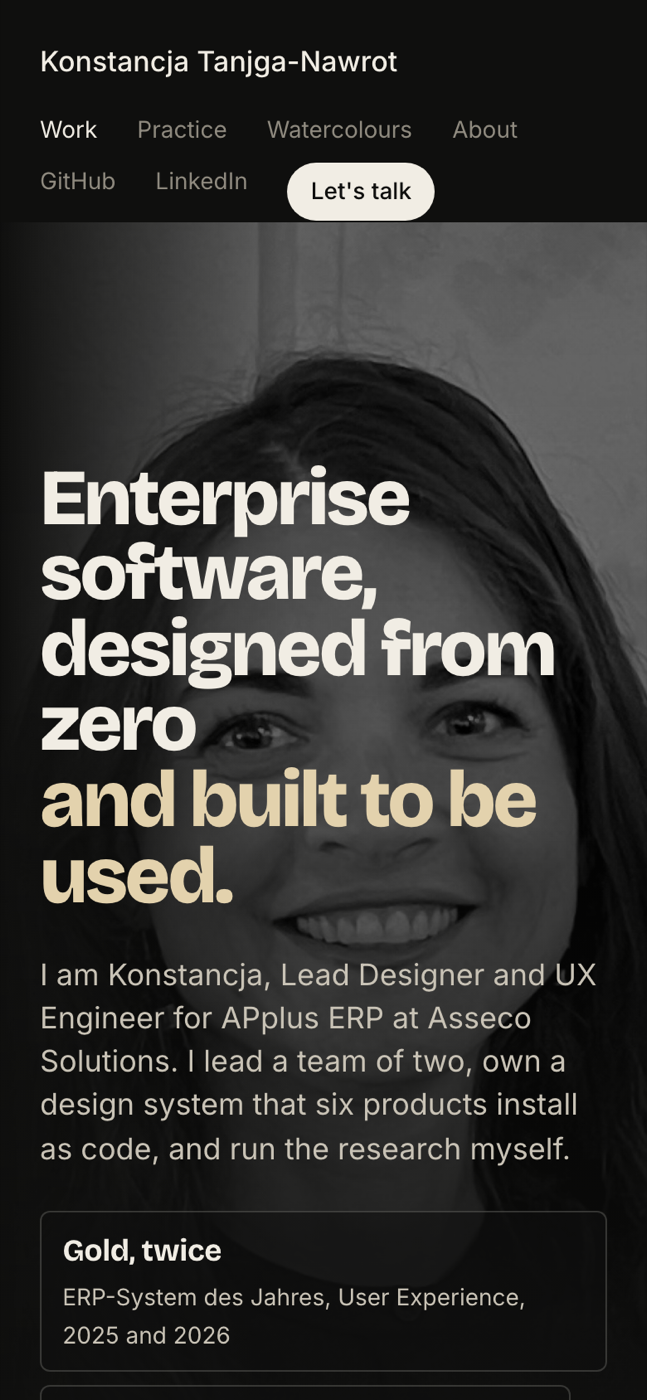
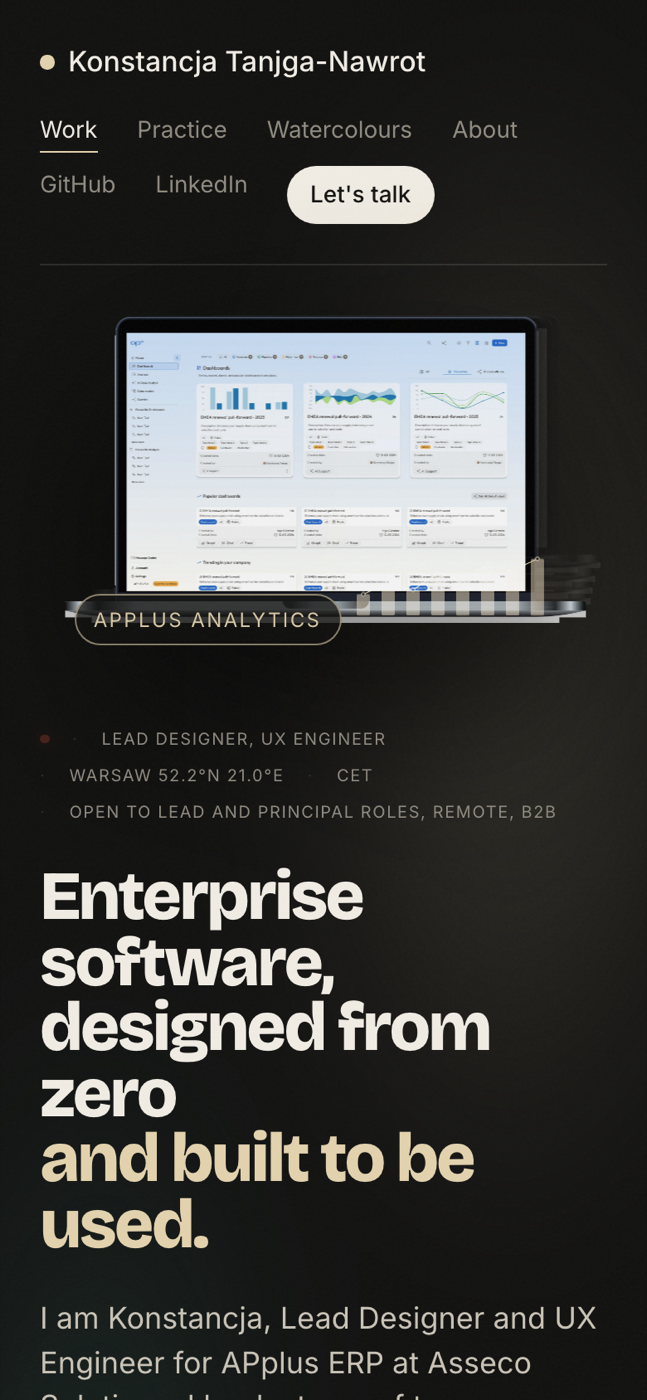
feat(home): hero w dwoch kolumnach - haslo obok przenikajacych sie ekranow; na telefonie scena nad haslem, bez wedrowki przez skale

diff --git a/site/src/styles/home.css b/site/src/styles/home.css
@@ -532,3 +532,60 @@
 
 /* the stage is a backdrop: absolute, under the words, whatever the layering rule above says */
 .hm > .hm-hero > .hm-hero__stage { position: absolute; z-index: 1; }
+
+/* the stage: the product screens blending, behind and to the right of the claim */
+.hm > .hm-hero > .hm-hero__stage {
+  top: 3%;
+  right: -4%;
+  width: 64%;
+  pointer-events: none;
+  opacity: 0.95;
+  -webkit-mask-image: linear-gradient(90deg, transparent, #000 22%);
+  mask-image: linear-gradient(90deg, transparent, #000 22%);
+}
+.hm-hero__stage .layers { aspect-ratio: 16 / 10; }
+.hm-hero__stage .layers__chart { right: 8%; bottom: 10%; }
+.hm-hero__text { max-width: 60%; }
+@media (max-width: 56rem) {
+  .hm > .hm-hero > .hm-hero__stage { position: relative; width: 100%; right: 0; top: 0; mask-image: none; -webkit-mask-image: none; margin: 0 auto var(--bh-space-4); }
+  .hm-hero__text { max-width: none; }
+}
+
+/* ---------- hero as two columns: the claim beside the stage ---------- */
+.hm > .hm-hero {
+  display: grid;
+  grid-template-columns: minmax(0, 1fr) minmax(0, 1.15fr);
+  gap: var(--bh-space-5) var(--bh-space-5);
+  align-items: center;
+  min-height: min(88vh, 54rem);
+  max-width: var(--bh-page);
+  margin: 0 auto;
+  padding: var(--bh-space-6) var(--bh-gutter) var(--bh-space-5);
+  overflow: visible;
+}
+.hm > .hm-hero > .hm-hero__stage {
+  position: relative;
+  top: auto;
+  right: auto;
+  width: 100%;
+  grid-column: 2;
+  grid-row: 1;
+  -webkit-mask-image: none;
+  mask-image: none;
+}
+.hm > .hm-hero > .hm-hero__text { grid-column: 1; grid-row: 1; max-width: none; padding: 0; }
+.hm, .hm > .hm-hero { overflow-x: clip; }
+.hm > .hm-hero > .hm-ledger { grid-column: 1 / -1; grid-row: 2; order: 0; margin-top: 0; }
+.hm-hero__claim { font-size: clamp(2.6rem, 5.6vw, 5rem); max-width: 10em; }
+.hm-hero__lead { max-width: 30rem; }
+.hm-hero__status { font-size: 10px; }
+@media (max-width: 56rem) {
+  .hm > .hm-hero { grid-template-columns: 1fr; padding-top: var(--bh-space-4); }
+  .hm > .hm-hero > .hm-hero__stage { grid-column: 1; grid-row: 1; margin: 0; }
+  .hm > .hm-hero > .hm-hero__text { grid-row: 2; }
+  .hm > .hm-hero > .hm-ledger { grid-row: 3; }
+  .journey { display: none; }
+}
+.hm > .hm-hero { grid-template-columns: minmax(0, 1fr) minmax(0, 1.05fr); align-items: start; }
+.hm > .hm-hero > .hm-hero__stage { align-self: center; margin-top: var(--bh-space-6); }
+.hm-hero__claim { font-size: clamp(2.4rem, 5vw, 4.4rem); }
